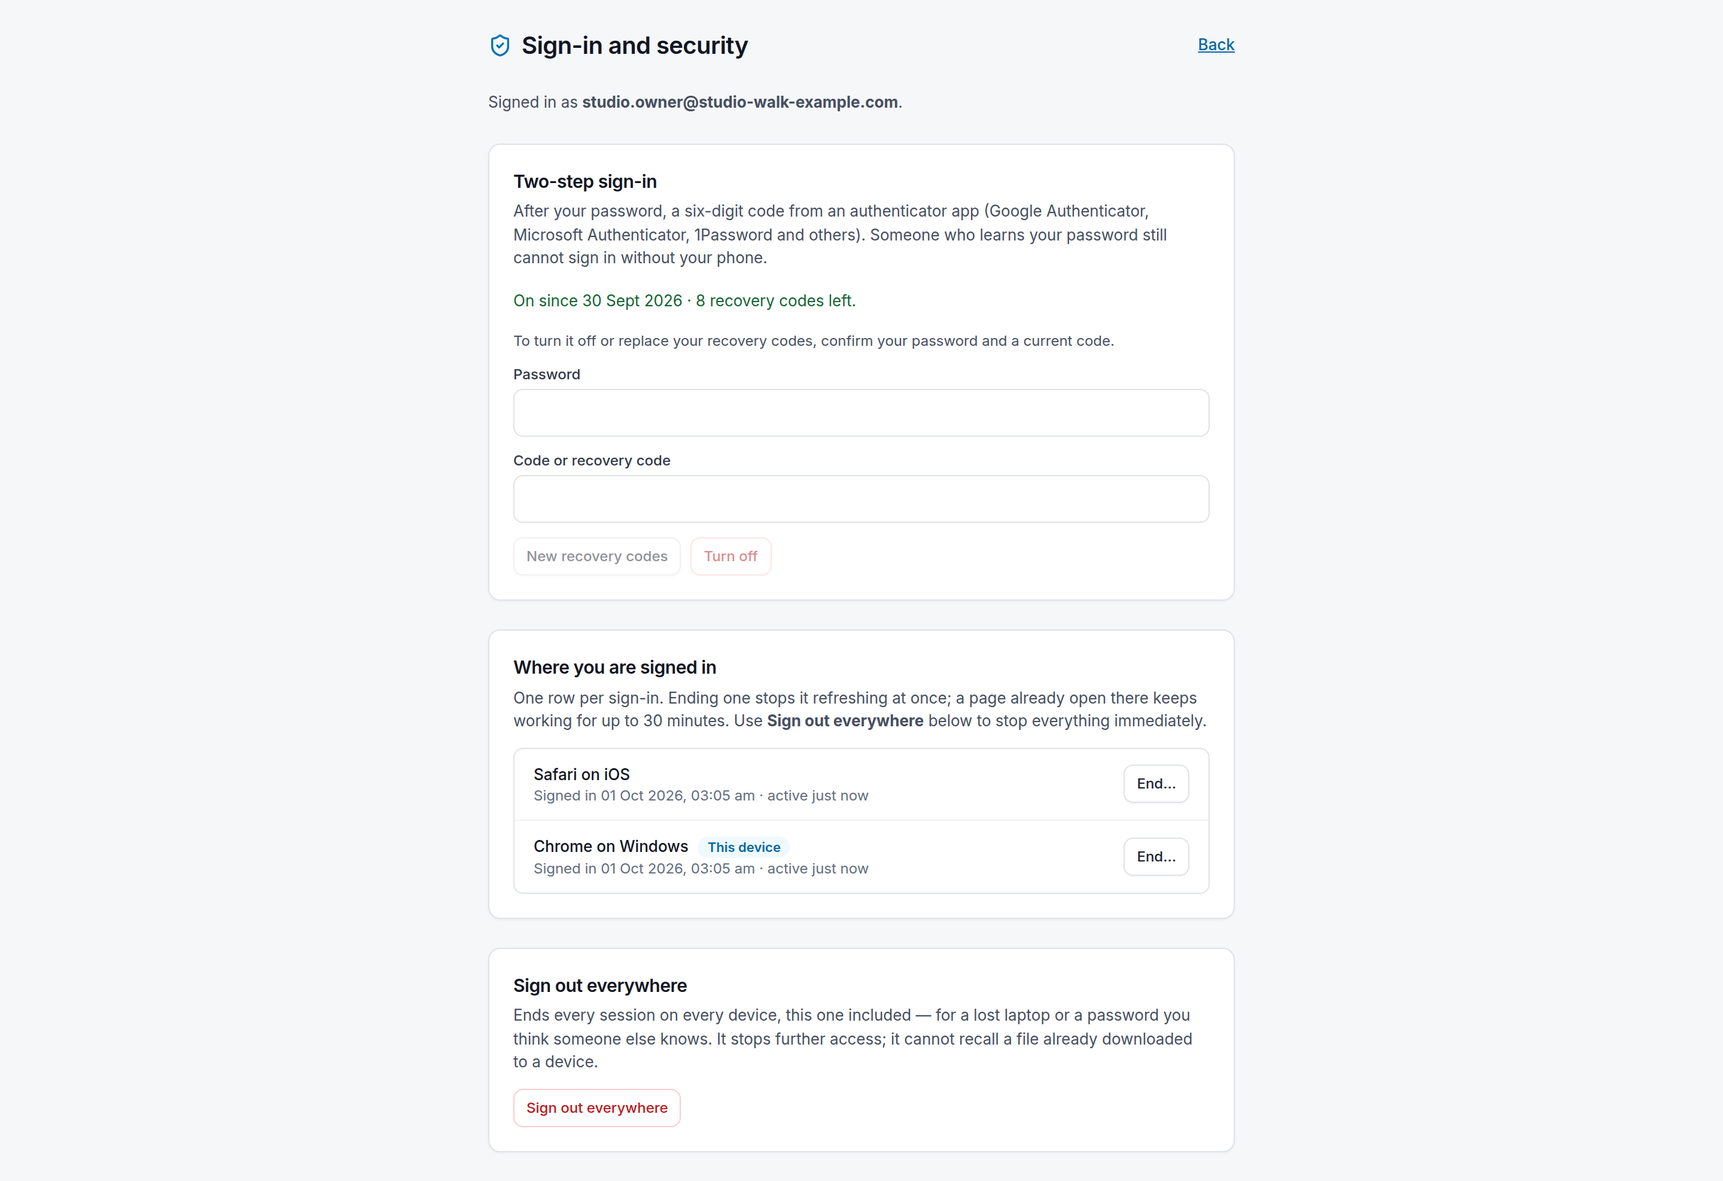
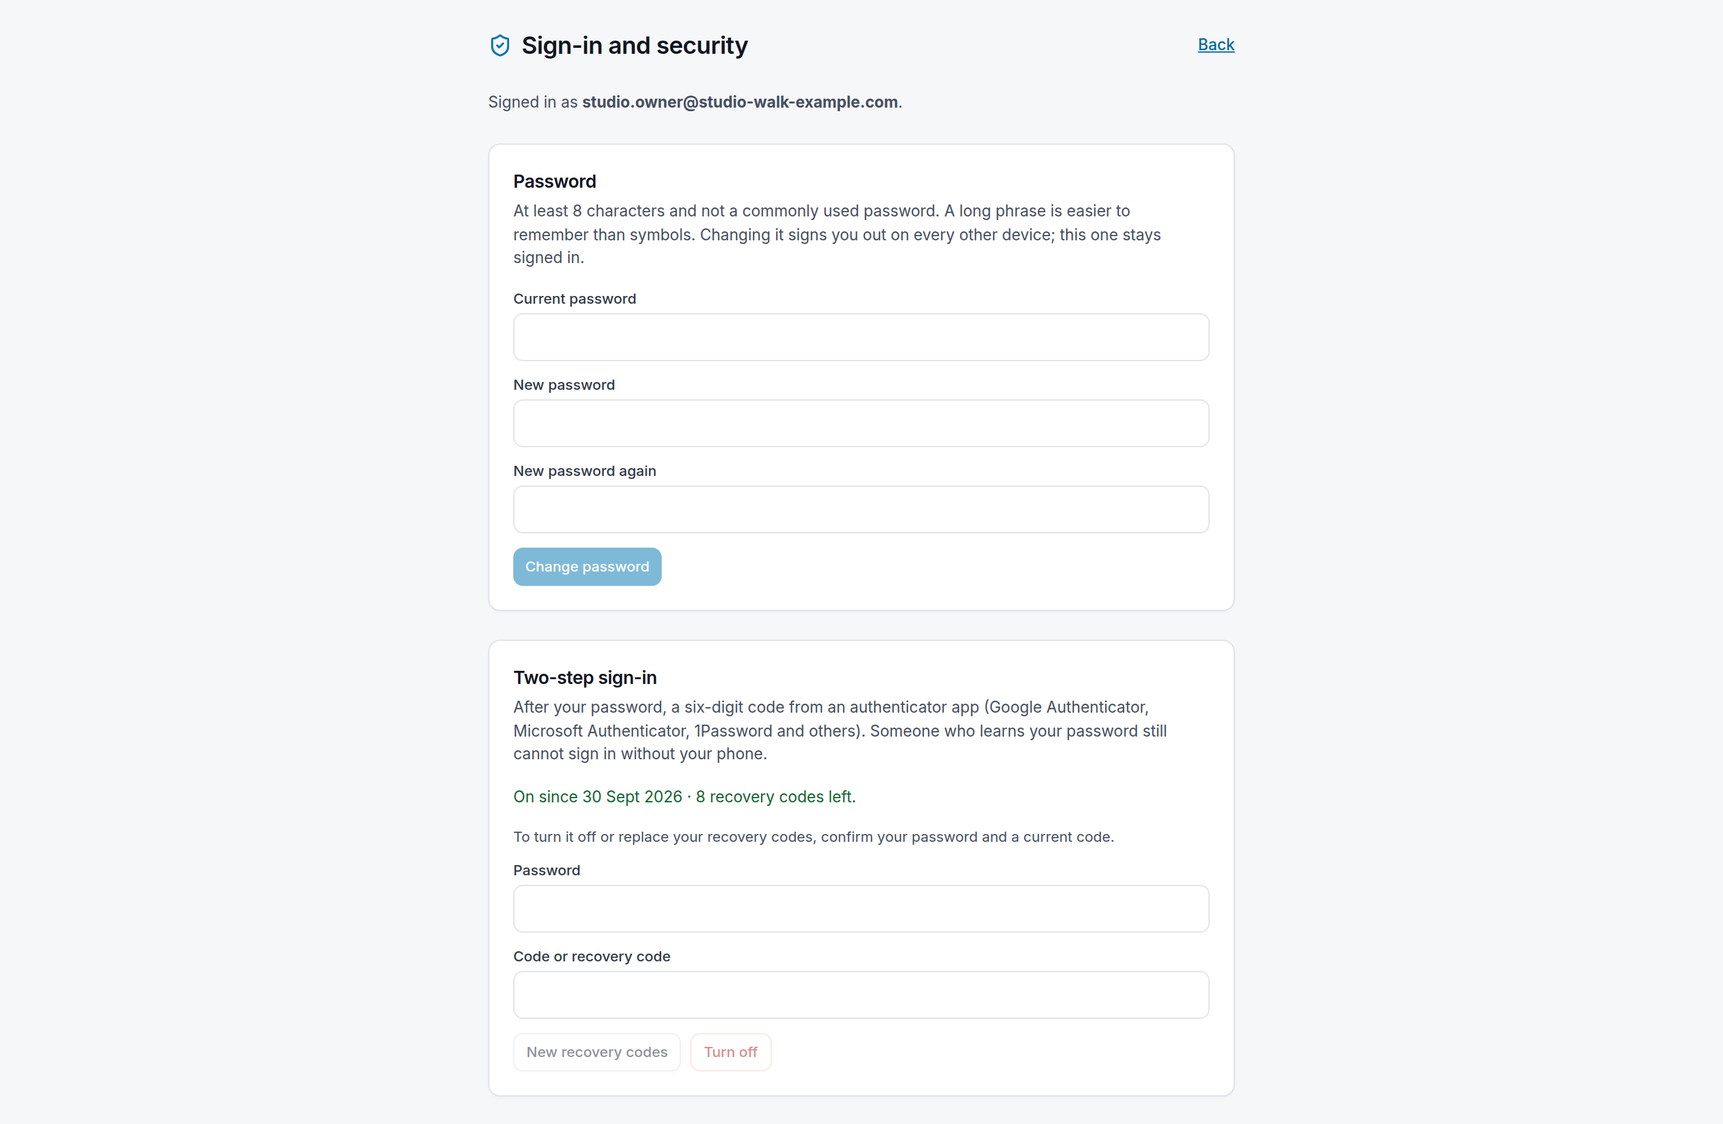
Let a signed-in person change their own password
Nobody could change a password: there was no form for it, and password reset
links are created but never delivered because the product has no mail
service. A password someone else learned (such as the one an old deployment
note published for a QA account) could not be replaced.

POST /api/auth/password takes the current password and a new one:
- the current password is checked and throttled like the other re-checks;
- the new one meets the sign-up policy and must differ from the current one;
- every other session ends, this device gets a fresh pair, outstanding reset
  links are spent, and a password_changed security event is written;
- two-step sign-in is left as it is; support sessions cannot use it.

The account security page gets a Password section (current, new, new again).
Manual, handbook route table, control register AU-03 and SECURITY.md (F18,
R3) say so; the manual's screenshot is re-taken from synthetic data.

Claude-Session: https://claude.ai/code/session_01VuPnSkVWEQf6et5cEp17zC

diff --git a/frontend/src/app/account/security/page.tsx b/frontend/src/app/account/security/page.tsx
@@ -31,7 +31,7 @@ async function post<T>(path: string, body: unknown): Promise<T> {
 }
 
 /**
- * Your own sign-in: two-step sign-in, recovery codes, and signing out everywhere.
+ * Your own sign-in: password, two-step sign-in, recovery codes, and signing out everywhere.
  *
  * Reachable from a client or a platform session; a support session is inside
  * someone else's workspace and changes nothing here. The secret and the
@@ -51,6 +51,10 @@ export default function AccountSecurityPage() {
   const [sessions, setSessions] = useState<SignedIn[] | null>(null);
   const [ending, setEnding] = useState<string | null>(null);
   const [endPassword, setEndPassword] = useState("");
+  const [current, setCurrent] = useState("");
+  const [next, setNext] = useState("");
+  const [again, setAgain] = useState("");
+  const [changed, setChanged] = useState(false);
   const portal = getSessionPortal();
   const home = portal === "platform" ? "/platform" : "/dashboard";
 
@@ -80,6 +84,17 @@ export default function AccountSecurityPage() {
       setBusy(false);
     }
   }
+
+  const changePassword = (e: FormEvent) => { e.preventDefault(); void run(async () => {
+    setChanged(false);
+    if (next !== again) throw new Error("The two new passwords do not match.");
+    const done = await post<{ access_token: string; refresh_token: string }>("/api/auth/password", { current_password: current, new_password: next });
+    // Every other session has ended; this device carries on with the pair it was just given.
+    setTokens(done.access_token, done.refresh_token);
+    setCurrent(""); setNext(""); setAgain("");
+    setChanged(true);
+    await load();
+  }); };
 
   const begin = (e: FormEvent) => { e.preventDefault(); void run(async () => {
     setSetup(await post<Setup>("/api/auth/mfa/setup", { password }));
@@ -147,6 +162,27 @@ export default function AccountSecurityPage() {
           Your organisation requires two-step sign-in for platform staff. Set it up below to continue.
         </p>
       ) : null}
+
+      <section aria-labelledby="password-heading" className="rounded-xl border border-ink-200 bg-white p-5 shadow-soft">
+        <h2 id="password-heading" className="text-[15px] font-semibold">Password</h2>
+        <p className="mt-1 text-[13px] text-ink-600">
+          At least 8 characters and not a commonly used password. A long phrase is easier to remember than symbols.
+          Changing it signs you out on every other device; this one stays signed in.
+        </p>
+        {changed ? <p role="status" className="mt-3 rounded-lg border border-success-200 bg-success-50 p-3 text-[13px] text-success-800">Password changed. Every other device has been signed out.</p> : null}
+        <form onSubmit={changePassword} className="mt-4 space-y-3">
+          <label className="block text-xs font-medium text-ink-700">Current password
+            <input type="password" autoComplete="current-password" className={field} value={current} onChange={(e) => setCurrent(e.target.value)} required />
+          </label>
+          <label className="block text-xs font-medium text-ink-700">New password
+            <input type="password" autoComplete="new-password" className={field} value={next} onChange={(e) => setNext(e.target.value)} required minLength={8} maxLength={128} />
+          </label>
+          <label className="block text-xs font-medium text-ink-700">New password again
+            <input type="password" autoComplete="new-password" className={field} value={again} onChange={(e) => setAgain(e.target.value)} required minLength={8} maxLength={128} />
+          </label>
+          <Button type="submit" size="sm" disabled={busy || !current || next.length < 8 || !again}>Change password</Button>
+        </form>
+      </section>
 
       <section aria-labelledby="mfa-heading" className="rounded-xl border border-ink-200 bg-white p-5 shadow-soft">
         <h2 id="mfa-heading" className="text-[15px] font-semibold">Two-step sign-in</h2>

diff --git a/docs/handbook.html b/docs/handbook.html
@@ -408,7 +408,7 @@
           <tr><td class="mono">/platform/join</td><td>Accept a platform staff invitation and set a password</td><td><span class="pill p-info">Token</span></td></tr>
           <tr><td class="mono">/platform</td><td>Platform console — provision a client workspace</td><td><span class="pill p-stop">Platform admin</span></td></tr>
           <tr><td class="mono">/invite</td><td>Accept an invitation</td><td><span class="pill p-info">Token</span></td></tr>
-          <tr><td class="mono">/account/security</td><td>Your own sign-in: set up, turn off or replace the recovery codes of two-step sign-in (TOTP); see where you are signed in and end any one session (password required); sign out everywhere. A member whose organisation requires two-step sign-in, not yet enrolled, is sent here and can do nothing else until enrolled. A support session cannot change anything here</td><td><span class="pill p-ok">Any signed-in person</span></td></tr>
+          <tr><td class="mono">/account/security</td><td>Your own sign-in: change your password (current password required; every other session ends, this one continues); set up, turn off or replace the recovery codes of two-step sign-in (TOTP); see where you are signed in and end any one session (password required); sign out everywhere. A member whose organisation requires two-step sign-in, not yet enrolled, is sent here and can do nothing else until enrolled. A support session cannot change anything here</td><td><span class="pill p-ok">Any signed-in person</span></td></tr>
           <tr><td class="mono">/control-centre</td><td>Payroll Control Centre — one month for one company: files and readiness, validation progress and coverage, findings needing attention, changes since the previous run, approval blockers, reconciliation, evidence and dashboards, and the next step. Its state is the server's own period status (<code>/api/validation/periods/{p}/status</code>); a month with no findings is never shown as clean unless it is. The month is the <em>working period</em> chosen in the header, remembered per company for the browser session</td><td><span class="pill p-ok">Any role</span> (start validation: write roles)</td></tr>
           <tr><td class="mono">/dashboard</td><td>Companies portfolio — every employer, ordered by what needs attention</td><td><span class="pill p-ok">Any role</span></td></tr>
           <tr><td class="mono">/payroll/upload</td><td>Salary register, in four stages: choose file, month and run type; map columns (sample values, how each suggestion matched — from <code>match</code> on <code>POST /api/payroll/preview</code> — and the <code>required</code> fields still unmapped); server check (employees read, revision, whether the month's register was replaced); queue validation</td><td><span class="pill p-warn">Write roles</span></td></tr>

diff --git a/backend/tests/test_auth_security.py b/backend/tests/test_auth_security.py
@@ -506,3 +506,78 @@ def test_a_person_sees_their_sessions_and_ends_one(client):
     assert client.post(f"/api/auth/sessions/{mine}/end", headers=_bearer(stranger),
                        json={"password": PASSWORD}).status_code == 404
     assert _me(client, laptop) == 200
+
+
+# ── changing your own password ──────────────────────────────────────────────
+
+def test_a_person_changes_their_password_and_every_other_session_ends(client):
+    """ASVS 6.2.2/6.2.3: the current password first; the old one stops working."""
+    email, laptop = _signup(client, "change")
+    phone = _login(client, email).json()["data"]
+    new = "An0ther-Passw0rd"
+
+    wrong = client.post("/api/auth/password", headers=_bearer(laptop),
+                        json={"current_password": "not-it", "new_password": new})
+    assert wrong.status_code == 401
+    assert _login(client, email).status_code == 200                 # nothing changed
+
+    # A reset link issued before the change must not be able to undo it.
+    raw = secrets.token_urlsafe(32)
+    with SessionLocal() as db:
+        user = db.query(User).filter(User.email == email).one()
+        db.add(PasswordResetToken(user_id=user.id, token_hash=token_fingerprint(raw),
+                                  expires_at=datetime.now(UTC) + timedelta(hours=1)))
+        db.commit()
+
+    done = client.post("/api/auth/password", headers=_bearer(laptop),
+                       json={"current_password": PASSWORD, "new_password": new})
+    assert done.status_code == 200, done.text
+    fresh = done.json()["data"]
+    assert _me(client, fresh) == 200                                 # this device carries on
+    assert _me(client, laptop) == _me(client, phone) == 401          # the old tokens do not
+    assert client.post("/api/auth/refresh", json={"refresh_token": phone["refresh_token"]}).status_code == 401
+    assert client.post("/api/auth/refresh", json={"refresh_token": fresh["refresh_token"]}).status_code == 200
+
+    assert _login(client, email).status_code == 401
+    assert _login(client, email, new).status_code == 200
+    assert client.post("/api/auth/password-reset-confirm",
+                       json={"token": raw, "new_password": "Th1rd-Passw0rd"}).status_code == 400
+
+    kinds = [(e.kind, e.outcome) for e in _events(email)]
+    assert ("password_changed", "changed") in kinds
+    blob = json.dumps([e.detail for e in _events(email)])
+    assert PASSWORD not in blob and new not in blob
+
+
+def test_a_new_password_meets_the_same_rules_and_must_differ(client):
+    email, tokens = _signup(client, "changerules")
+    common = client.post("/api/auth/password", headers=_bearer(tokens),
+                         json={"current_password": PASSWORD, "new_password": "password123"})
+    assert common.status_code == 422 and "password123" not in common.text
+    same = client.post("/api/auth/password", headers=_bearer(tokens),
+                       json={"current_password": PASSWORD, "new_password": PASSWORD})
+    assert same.status_code == 400
+    assert _me(client, tokens) == 200                                # a refusal ends nothing
+    assert client.post("/api/auth/password", json={"current_password": PASSWORD,
+                                                    "new_password": "An0ther-Passw0rd"}).status_code == 401
+
+
+def test_guessing_the_current_password_locks_the_change(client):
+    email, tokens = _signup(client, "changeguess")
+    for _ in range(settings.login_max_failures):
+        assert client.post("/api/auth/password", headers=_bearer(tokens),
+                           json={"current_password": "guess", "new_password": "An0ther-Passw0rd"}).status_code == 401
+    locked = client.post("/api/auth/password", headers=_bearer(tokens),
+                         json={"current_password": PASSWORD, "new_password": "An0ther-Passw0rd"})
+    assert locked.status_code == 429
+    assert _login(client, email).status_code == 200                  # the password did not change
+
+
+def test_a_password_change_keeps_two_step_sign_in(client):
+    email, tokens = _signup(client, "changemfa")
+    _, _, tokens = _enrol(client, tokens)
+    done = client.post("/api/auth/password", headers=_bearer(tokens),
+                       json={"current_password": PASSWORD, "new_password": "An0ther-Passw0rd"})
+    assert done.status_code == 200, done.text
+    after = _login(client, email, "An0ther-Passw0rd").json()["data"]
+    assert after.get("mfa_required") is True and "access_token" not in after

diff --git a/backend/app/routers/auth.py b/backend/app/routers/auth.py
@@ -21,6 +21,7 @@ from app.schemas.auth import (
     MfaChange,
     MfaEnable,
     MfaVerify,
+    PasswordChange,
     PasswordConfirm,
     PlatformInviteAccept,
     SupportSessionRequest,
@@ -388,10 +389,10 @@ def me(user: User = Depends(get_current_user)):
 
 # ── two-step sign-in ────────────────────────────────────────────────────────
 
-def _own_account(request: Request, user: User) -> None:
+def _own_account(request: Request, user: User, what: str = "two-step sign-in") -> None:
     """A support session acts inside a client's workspace; it never changes the staff member's own sign-in."""
     if (getattr(request.state, "auth_claims", {}) or {}).get("portal") == "support" or user.role in ("system", "machine"):
-        raise HTTPException(status_code=403, detail="Change two-step sign-in from your own session")
+        raise HTTPException(status_code=403, detail=f"Change {what} from your own session")
 
 
 def _recheck_password(db: Session, request: Request, user: User, password: str) -> None:
@@ -497,6 +498,36 @@ def _claim_org(request: Request) -> uuid.UUID | None:
         return uuid.UUID(raw) if raw else None
     except ValueError:
         return None
+
+
+# ── password change ─────────────────────────────────────────────────────────
+
+@router.post("/password")
+def change_password(body: PasswordChange, request: Request, user: User = Depends(get_current_user),
+                    db: Session = Depends(get_db)):
+    """
+    Change your own password (OWASP ASVS 5.0 6.2.2, 6.2.3): the current one
+    first, and the new one held to the same rules as sign-up.
+
+    Every other sign-in ends, on every device — the usual reason to change a
+    password is that someone else may know it. This device carries on with the
+    pair returned. Two-step sign-in is untouched: the password is what changes.
+    """
+    _own_account(request, user, "your password")
+    _recheck_password(db, request, user, body.current_password)
+    if verify_password(body.new_password, user.password_hash):
+        raise HTTPException(status_code=400, detail="The new password is the same as the current one")
+    user.password_hash = hash_password(body.new_password)
+    # A reset link issued earlier would otherwise undo this change.
+    db.query(PasswordResetToken).filter(PasswordResetToken.user_id == user.id,
+                                        PasswordResetToken.used_at.is_(None)).update({"used_at": datetime.now(UTC)})
+    guard.event(db, request, kind="password_changed", outcome="changed", user=user)
+    guard.end_all_sessions(db, request, user, reason="password_changed")
+    db.commit()
+    claims = request.state.auth_claims or {}
+    tokens = _issue_tokens(db, user, portal=claims.get("portal", "client"), org_id=_claim_org(request),
+                           auth_time=claims.get("auth_time"), session_id=claims.get("sid"), request=request)
+    return ok(tokens.model_dump())
 
 
 # ── password reset ──────────────────────────────────────────────────────────

diff --git a/backend/app/schemas/auth.py b/backend/app/schemas/auth.py
@@ -86,6 +86,13 @@ class PasswordConfirm(BaseModel):
     password: str = Field(min_length=1, max_length=256)
 
 
+class PasswordChange(BaseModel):
+    current_password: str = Field(min_length=1, max_length=256)
+    new_password: str = Field(min_length=8, max_length=128)
+
+    _policy = field_validator("new_password")(_password_policy)
+
+
 class MfaEnable(BaseModel):
     code: str = Field(min_length=6, max_length=12)
 

diff --git a/docs/SECURITY.md b/docs/SECURITY.md
@@ -133,6 +133,7 @@ Each item has a regression test that fails without the fix.
 | F15 | Next.js 14.2.18 with a critical middleware-bypass advisory and several DoS advisories | High | 14.2.35, image optimiser off; DOMPurify ≥ 3.4.16; then Next.js 15.5.27 / React 19 and PostCSS ≥ 8.5.28 (1 Oct 2026) | `npm audit` + `tools/dependency_audit.py` |
 | F16 | Literal passwords in two documents | Low–Medium | Placeholders; `.gitleaksignore` records the review | gitleaks: no findings |
 | F17 | No dependency audit, SBOM or secret scan; CI tests SQLite only | Medium | CI jobs `backend-postgres`, `supply-chain`; Dependabot | Run locally (§6); first CI run on the PR |
+| F18 | No one could change a password: no change form, and reset links had no mail service to deliver them (ASVS 6.2.2, 6.2.3) | Medium | `POST /api/auth/password` and a form on `/account/security`: current password required, throttled, same policy, every other session ended (1 Oct 2026) | `…::test_a_person_changes_their_password…` and three more |
 
 Nothing was changed in production: no deploy, no setting, no data. The fixes
 reach production when the pull request is merged and Render auto-deploys `main`.
@@ -198,7 +199,7 @@ month, P2 this quarter.
 |---|---|---|---|---|
 | R1 | Free database deleted on 22 Oct; no backups | Business owner | **P0** | Paid plan with point-in-time recovery; then run `restore_drill.py` against a restored production backup in a separate instance and file the record |
 | R2 | Data and logs outside India | Business owner + legal | **P0** | Legal view on CERT-In and DPDP; if needed, move to an India region. Render offers Oregon, Ohio, Virginia, Frankfurt and Singapore (render.com/docs/regions, checked 30 Sep 2026), so this means another host |
-| R3 | Possible production account with a published password (`qa@peopleopslab.in`) | Platform owner | **P0** | Check whether it exists; if so, change its password or remove its access |
+| R3 | Possible production account with a published password (`qa@peopleopslab.in`) | Platform owner | **P0** | Check whether it exists. If it does, sign in as it and use **Change password** on `/account/security` (added 1 Oct 2026; before that no user could change a password, since reset links have no mail service to send them) — or remove its access |
 | R4 | ~~Next.js App Router DoS advisories~~ | Engineering | Done | Upgraded to Next.js 15.5.27 and React 19 (1 Oct 2026); every Next.js advisory cleared, 30 provisional exceptions removed |
 | R5 | `xlsx` advisories (browser-side parsing) | Engineering | P1 | Install 0.20.3 from cdn.sheetjs.com, or parse previews server-side |
 | R6 | Two-step sign-in is optional until an owner turns it on | Each client owner; platform owner for staff | P1 | Enrol all platform staff, then set `REQUIRE_MFA_FOR_PLATFORM_STAFF=true`; recommend clients turn on `members_require_mfa` |

diff --git a/docs/security/CONTROL_REGISTER.md b/docs/security/CONTROL_REGISTER.md
@@ -72,10 +72,10 @@ Owners are roles. Priority: P0 now · P1 this month · P2 this quarter.
 - **Status:** Implemented — verified (message and status); timing not measured.
 
 ### AU-03 — Password policy
-- **Requirement:** A.5.17 *Authentication information*. ASVS 6.2.1, 6.2.4, 6.2.9, 6.2.12.
-- **Implementation / evidence:** 8–128 characters; refused if among the 10,000 most common (SecLists / NCSC list, MIT, in `app/data`); checked at sign-up, invitation and reset; refused values not echoed in 422 bodies.
+- **Requirement:** A.5.17 *Authentication information*. ASVS 6.2.1, 6.2.2, 6.2.3, 6.2.4, 6.2.9, 6.2.12.
+- **Implementation / evidence:** 8–128 characters; refused if among the 10,000 most common (SecLists / NCSC list, MIT, in `app/data`); checked at sign-up, invitation, reset and change; refused values not echoed in 422 bodies. A signed-in person changes their own password at `POST /api/auth/password` (`/account/security`) with the current one (6.2.2, 6.2.3), throttled like sign-in; it ends every other session, spends outstanding reset links and is logged as `password_changed` (added 1 Oct 2026).
 - **Remediation required:** breached-password check (6.2.12); bcrypt 72-byte limit (R9).
-- **Verification · result:** `test_a_common_password_is_refused…` — pass.
+- **Verification · result:** `test_a_common_password_is_refused…`, `test_a_person_changes_their_password_and_every_other_session_ends`, `test_a_new_password_meets_the_same_rules_and_must_differ`, `test_guessing_the_current_password_locks_the_change`, `test_a_password_change_keeps_two_step_sign_in` — pass.
 - **Status:** Partial (6.2.12 not met).
 
 ### AU-04 — Multi-factor authentication

diff --git a/docs/CLIENT_USER_MANUAL.md b/docs/CLIENT_USER_MANUAL.md
@@ -69,6 +69,11 @@ you have.
 
 **Where you are signed in** on the same page lists each sign-in — browser, when it began, when it was last active — and marks this device. **End…** one, after confirming your password: it stops refreshing at once, though a page already open there keeps working for up to 30 minutes.
 
+**Change password**, at the top of the same page, asks for your current
+password and the new one twice. It signs you out on every other device; this
+one stays signed in. Use it whenever you think someone else may know your
+password.
+
 **Sign out everywhere** ends every session on every device,
 this one included — use it if a laptop is lost or you think someone else knows
 your password. Resetting your password does the same. It stops further access;
